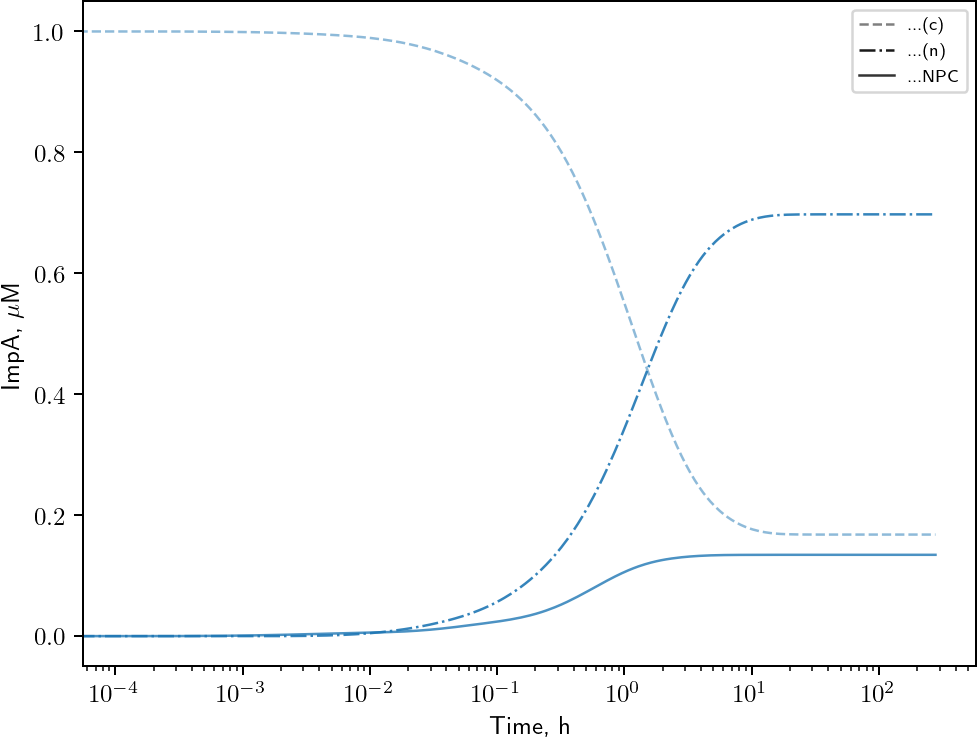
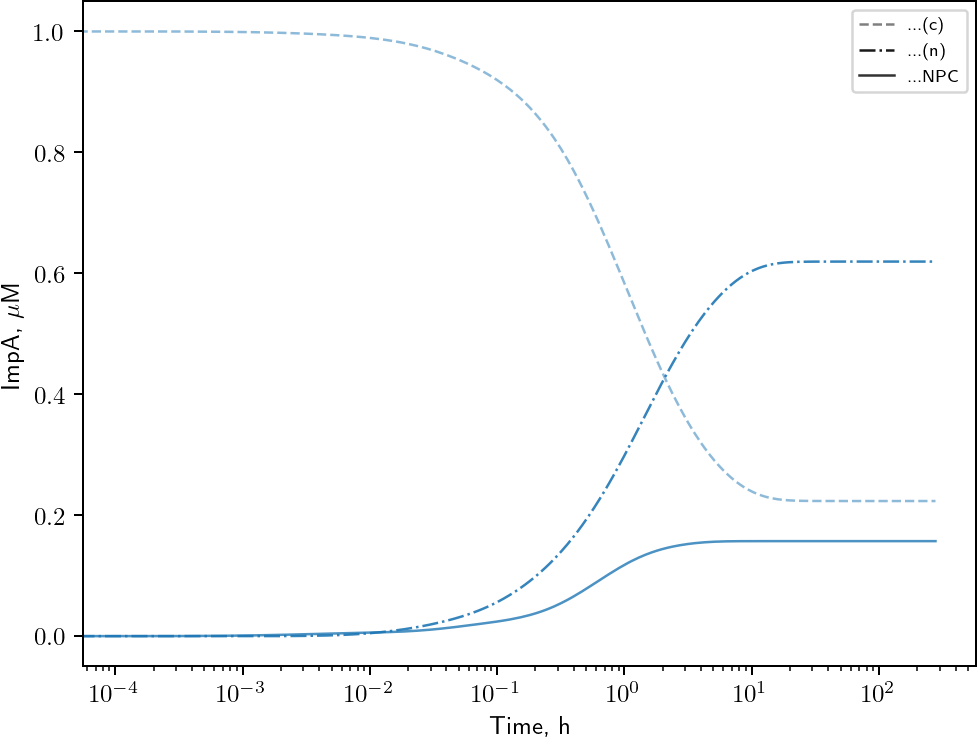
scenarios

diff --git a/code/20210413-AlphaBeta/scenarios/Both_2.m b/code/20210413-AlphaBeta/scenarios/Both_2.m
@@ -1,4 +1,4 @@
-% Autogenerated by populate_scenarios.py on UTC-20210521-175614.
+% Autogenerated by populate_scenarios.py on UTC-20210521-175839.
 
 s = m.Species({m.Species.Name} == "CAS(c)");
 assert(s.Units == "uM");
@@ -86,13 +86,13 @@ r = m.Reactions({m.Reactions.Name} == "Complex CAS with NPC");
 k = r.KineticLaw;
 p = k.Parameters({k.Parameters.Name} == "kf");
 assert(p.Units == "1/uM/s");
-p.Value = 1e-3;
+p.Value = 1e-2;
 
 r = m.Reactions({m.Reactions.Name} == "Complex CAS with NPC");
 k = r.KineticLaw;
 p = k.Parameters({k.Parameters.Name} == "kr");
 assert(p.Units == "1/s");
-p.Value = 1e-5;
+p.Value = 1e-4;
 
 r = m.Reactions({m.Reactions.Name} == "Complex ΔCAS with NPC");
 k = r.KineticLaw;

diff --git a/code/20210413-AlphaBeta/scenarios/Baseline1.m b/code/20210413-AlphaBeta/scenarios/Baseline1.m
@@ -1,4 +1,4 @@
-% Autogenerated by populate_scenarios.py on UTC-20210521-175614.
+% Autogenerated by populate_scenarios.py on UTC-20210521-175839.
 
 s = m.Species({m.Species.Name} == "CAS(c)");
 assert(s.Units == "uM");

diff --git a/code/20210413-AlphaBeta/scenarios/Baseline2.m b/code/20210413-AlphaBeta/scenarios/Baseline2.m
@@ -1,4 +1,4 @@
-% Autogenerated by populate_scenarios.py on UTC-20210521-175614.
+% Autogenerated by populate_scenarios.py on UTC-20210521-175839.
 
 s = m.Species({m.Species.Name} == "CAS(c)");
 assert(s.Units == "uM");

diff --git a/code/20210413-AlphaBeta/scenarios/Both_1.m b/code/20210413-AlphaBeta/scenarios/Both_1.m
@@ -1,4 +1,4 @@
-% Autogenerated by populate_scenarios.py on UTC-20210521-175614.
+% Autogenerated by populate_scenarios.py on UTC-20210521-175839.
 
 s = m.Species({m.Species.Name} == "CAS(c)");
 assert(s.Units == "uM");

diff --git a/code/20210413-AlphaBeta/scenarios/OldBaseline.m b/code/20210413-AlphaBeta/scenarios/OldBaseline.m
@@ -1,4 +1,4 @@
-% Autogenerated by populate_scenarios.py on UTC-20210521-175614.
+% Autogenerated by populate_scenarios.py on UTC-20210521-175839.
 
 s = m.Species({m.Species.Name} == "CAS(c)");
 assert(s.Units == "uM");

diff --git a/code/20210413-AlphaBeta/scenarios/Only_dCAS_1.m b/code/20210413-AlphaBeta/scenarios/Only_dCAS_1.m
@@ -1,4 +1,4 @@
-% Autogenerated by populate_scenarios.py on UTC-20210521-175614.
+% Autogenerated by populate_scenarios.py on UTC-20210521-175839.
 
 s = m.Species({m.Species.Name} == "CAS(c)");
 assert(s.Units == "uM");

diff --git a/code/20210413-AlphaBeta/scenarios/Only_dCAS_2.m b/code/20210413-AlphaBeta/scenarios/Only_dCAS_2.m
@@ -1,4 +1,4 @@
-% Autogenerated by populate_scenarios.py on UTC-20210521-175614.
+% Autogenerated by populate_scenarios.py on UTC-20210521-175839.
 
 s = m.Species({m.Species.Name} == "CAS(c)");
 assert(s.Units == "uM");

diff --git a/code/20210413-AlphaBeta/scenarios/readme.md b/code/20210413-AlphaBeta/scenarios/readme.md
@@ -29,8 +29,8 @@
 | Reaction | ΔCAS with NPC                                                                | kf          | 1/uM/s  |                        |              |             |             |               | 1e-2          | 1e-1          | 1e-2     | 1e-1     |
 | Reaction | ΔCAS with NPC                                                                | kr          | 1/s     |                        |              |             |             |               | 1e-3          | 1e-2          | 1e-3     | 1e-2     |
 |          |                                                                              |             |         |                        |              |             |             |               |               |               |          |          |
-| Reaction | Complex CAS with NPC                                                         | kf          | 1/uM/s  | i.e. ImpA·CAS·Ran·GTP  |              | 1e-3        | 1e-2        | 1e-3          |               |               | 1e-3     | 1e-3     |
-| Reaction | Complex CAS with NPC                                                         | kr          | 1/s     |                        |              | 1e-5        | 1e-4        | 1e-4          |               |               | 1e-5     | 1e-5     |
+| Reaction | Complex CAS with NPC                                                         | kf          | 1/uM/s  | i.e. ImpA·CAS·Ran·GTP  |              | 1e-3        | 1e-2        | 1e-3          |               |               | 1e-3     | 1e-2     |
+| Reaction | Complex CAS with NPC                                                         | kr          | 1/s     |                        |              | 1e-5        | 1e-4        | 1e-4          |               |               | 1e-5     | 1e-4     |
 | Reaction | Complex ΔCAS with NPC                                                        | kf          | 1/uM/s  | i.e. ImpA·ΔCAS·Ran·GTP |              |             |             |               | 1e-3          | 1e-3          | 1e-3     | 1e-3     |
 | Reaction | Complex ΔCAS with NPC                                                        | kr          | 1/s     |                        |              |             |             |               | 1e-5          | 1e-5          | 1e-5     | 1e-5     |
 |          |                                                                              |             |         |                        |              |             |             |               |               |               |          |          |
